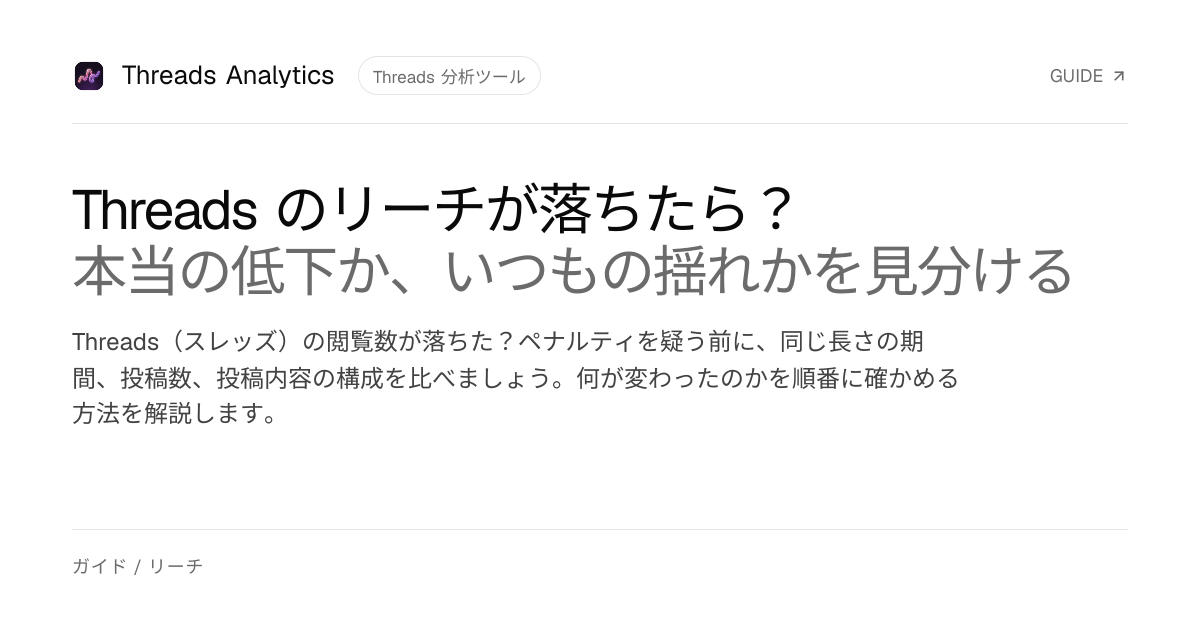
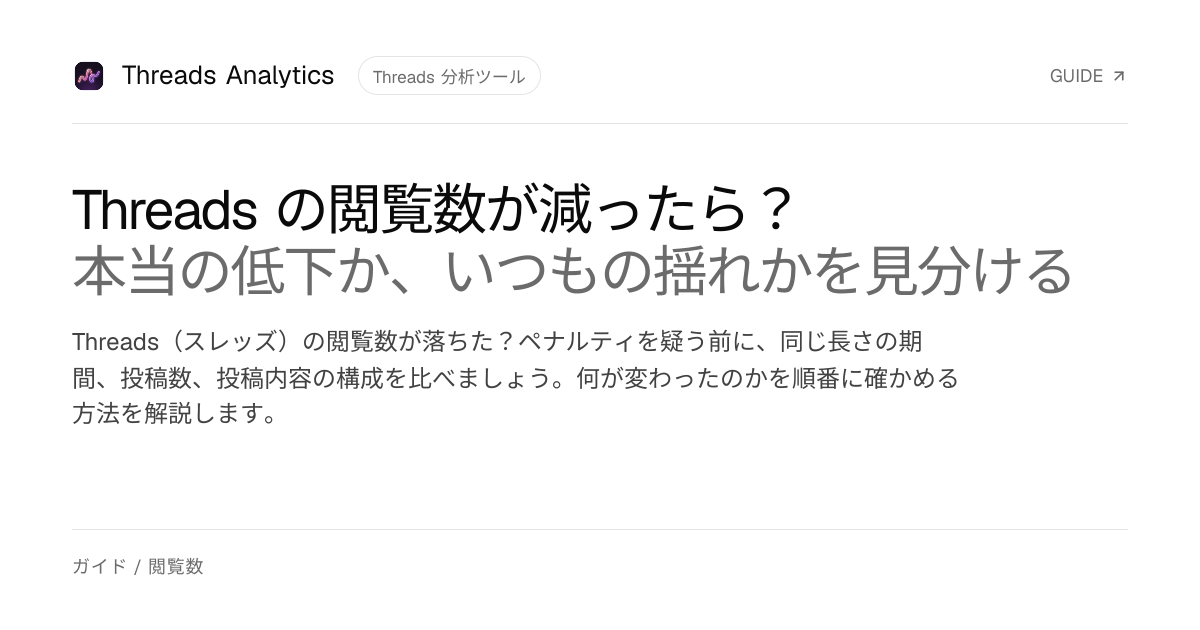
feat(website): improve indexing and keyword targeting
- Change the self-host env example host to your-db-host, so Cloudflare's
  email obfuscation stops rewriting it into a broken /cdn-cgi link.
- Add /llms.txt, generated from the page metadata registries and keyed by
  the static routes so a new page fails type-checking until it is listed.
- Retune titles and descriptions for searched terms: "Threads API" on the
  token guide, 閲覧数 and スレッズ on the Japanese pages, and 後台數據 on
  the Traditional Chinese guides. Lengthen the short zh-TW descriptions
  and add a posting-time FAQ.
- Bump the guides' modified dates and regenerate the seven OG images
  whose copy changed.

diff --git a/website/app/llms.txt/route.ts b/website/app/llms.txt/route.ts
@@ -1,0 +1,69 @@
+import { getGuide, guideHub, guideSlugs } from "@/lib/guides";
+import { getDictionary } from "@/lib/i18n";
+import { defaultLocale, localeNames, locales } from "@/lib/locales";
+import { staticPublicRoutes } from "@/lib/public-routes";
+import { selfHost } from "@/lib/self-host";
+import { siteConfig } from "@/lib/site";
+
+export const dynamic = "force-static";
+
+type PageCopy = { title: string; description: string };
+
+export function GET() {
+  const locale = defaultLocale;
+  const copy = getDictionary(locale);
+
+  // Keyed by every static route so a new page fails type-checking until it is listed here.
+  const pages: Record<(typeof staticPublicRoutes)[number], PageCopy> = {
+    "": copy.metadata,
+    "/analytics": copy.analyticsGuide.metadata,
+    "/desktop": copy.desktopGuide.metadata,
+    "/mcp": copy.mcpGuide.metadata,
+    "/giveaway": copy.giveawayGuide.metadata,
+    "/guides": guideHub[locale].metadata,
+    "/token-guide": copy.tokenGuide.metadata,
+    "/deploy/self-host": selfHost[locale].metadata,
+    "/deploy/railway-agent": copy.railwayAgentDeploy.metadata,
+    "/deploy/zeabur-agent": copy.zeaburAgentDeploy.metadata,
+    "/deploy/vercel-agent": copy.vercelAgentDeploy.metadata,
+  };
+
+  const link = (path: string, { title, description }: PageCopy) =>
+    `- [${title}](${siteConfig.url}/${locale}${path}): ${description}`;
+  const section = (heading: string, paths: (keyof typeof pages)[]) => [
+    `## ${heading}`,
+    "",
+    ...paths.map((path) => link(path, pages[path])),
+    "",
+  ];
+
+  const body = [
+    `# ${siteConfig.name}`,
+    "",
+    `> ${copy.metadata.description}`,
+    "",
+    `Source code (AGPL-3.0): ${siteConfig.github}`,
+    "",
+    ...section("Product", ["", "/analytics", "/desktop", "/mcp", "/giveaway"]),
+    "## Guides",
+    "",
+    link("/guides", pages["/guides"]),
+    ...guideSlugs.map((slug) => link(`/guides/${slug}`, getGuide(slug, locale).metadata)),
+    "",
+    ...section("Setup", [
+      "/token-guide",
+      "/deploy/self-host",
+      "/deploy/railway-agent",
+      "/deploy/zeabur-agent",
+      "/deploy/vercel-agent",
+    ]),
+    "## Other languages",
+    "",
+    ...locales
+      .filter((item) => item !== locale)
+      .map((item) => `- [${localeNames[item]}](${siteConfig.url}/${item})`),
+    "",
+  ].join("\n");
+
+  return new Response(body, { headers: { "Content-Type": "text/plain; charset=utf-8" } });
+}

diff --git a/website/lib/guides/index.ts b/website/lib/guides/index.ts
@@ -160,7 +160,7 @@ export const guideHub: Record<Locale, GuideHubCopy> = {
     metadata: {
       title: "Threads（脆）數據分析指南：洞察報告、發文時間、觸及率",
       description:
-        "Threads（脆）數據分析教學：看懂洞察報告的每個數字、用自己的貼文找出最佳發文時間，並判斷觸及率下降是真的掉還是正常波動。",
+        "Threads（脆）數據分析教學：看懂洞察報告與後台數據的每個數字、用自己的貼文找出最佳發文時間，並判斷觸及率、觀看數下降是真的掉還是正常波動。",
     },
     label: "指南",
     kicker: "指南 / Threads 數據",
@@ -194,9 +194,9 @@ export const guideHub: Record<Locale, GuideHubCopy> = {
   },
   ja: {
     metadata: {
-      title: "Threads（スレッズ）分析ガイド：インサイト・投稿時間・リーチ",
+      title: "Threads（スレッズ）分析ガイド：インサイト・投稿時間・閲覧数",
       description:
-        "Threads（スレッズ）のデータ分析ガイド。インサイトの数字の読み方、自分の投稿から最適な投稿時間を見つける方法、リーチが落ちたときの確かめ方を解説します。",
+        "Threads（スレッズ）のデータ分析ガイド。インサイトの数字の読み方、自分の投稿から最適な投稿時間を見つける方法、閲覧数が減ったときの確かめ方を解説します。",
     },
     label: "ガイド",
     kicker: "ガイド / Threads データ",
@@ -242,15 +242,15 @@ export const guideMeta: Record<
 > = {
   "threads-insights": {
     published: "2026-09-30",
-    modified: "2026-09-30",
+    modified: "2026-10-17",
     citesMetaAnnouncement: true,
   },
   "best-time-to-post": {
     published: "2026-09-30",
-    modified: "2026-09-30",
+    modified: "2026-10-17",
     citesMetaAnnouncement: false,
   },
-  "reach-drop": { published: "2026-09-30", modified: "2026-09-30", citesMetaAnnouncement: false },
+  "reach-drop": { published: "2026-09-30", modified: "2026-10-17", citesMetaAnnouncement: false },
 };
 
 /** Byline for the guides; matches the Article schema author. */

diff --git a/website/lib/guides/reach-drop.ts b/website/lib/guides/reach-drop.ts
@@ -64,7 +64,7 @@ const zh: GuideCopy = {
   metadata: {
     title: "Threads 觸及率下降怎麼辦：先判斷是真的掉還是正常波動",
     description:
-      "Threads（脆）觀看數突然下降？先別急著懷疑被限流。比較等長期間、發文篇數和內容組成，一步步找出真正改變的地方。",
+      "Threads（脆）觀看數突然下降、觸及率變低？先別急著懷疑被限流。比較等長期間、發文篇數和內容組成，一步步找出真正改變的地方，並建立自己的觀看基準。",
   },
   hero: {
     kicker: "指南 / 觸及",
@@ -110,17 +110,17 @@ const zh: GuideCopy = {
 };
 
 const ja: GuideCopy = {
-  navTitle: "Threads のリーチが落ちたとき",
-  menuTitle: "リーチが落ちたら",
+  navTitle: "Threads の閲覧数が減ったとき",
+  menuTitle: "閲覧数が減ったら",
   menuDescription: "本当の減少か通常の揺れかを見分ける",
   metadata: {
-    title: "Threads のリーチが落ちた？本当の低下と通常の揺れを見分ける方法",
+    title: "Threads の閲覧数が減った？本当の低下と通常の揺れを見分ける方法",
     description:
       "Threads（スレッズ）の閲覧数が落ちた？ペナルティを疑う前に、同じ長さの期間、投稿数、投稿内容の構成を比べましょう。何が変わったのかを順番に確かめる方法を解説します。",
   },
   hero: {
-    kicker: "ガイド / リーチ",
-    lineOne: "Threads のリーチが落ちたら？",
+    kicker: "ガイド / 閲覧数",
+    lineOne: "Threads の閲覧数が減ったら？",
     lineTwo: "本当の低下か、いつもの揺れかを見分ける",
     description:
       "閲覧数が急に落ちると、まず「制限されたのでは」と考えがちです。でも原因は、思っているより単純なことも少なくありません。一つずつ確認して、本当に変わったところを見つけましょう。",

diff --git a/website/lib/guides/best-time-to-post.ts b/website/lib/guides/best-time-to-post.ts
@@ -64,7 +64,7 @@ const zh: GuideCopy = {
   metadata: {
     title: "Threads 最佳發文時間怎麼找：用自己的數據找出適合的發文時段",
     description:
-      "Threads（脆）沒有通用的最佳發文時間。教你用自己的貼文紀錄找出適合的時段：依小時分組、比較中位數、確認樣本數，再實際測試。",
+      "Threads（脆）沒有通用的最佳發文時間。教你用自己的貼文紀錄找出適合的發文時段：依小時分組、比較中位數、確認樣本數，再用輪流發文的方式實際測試。",
   },
   hero: {
     kicker: "指南 / 發文時間",
@@ -81,6 +81,11 @@ const zh: GuideCopy = {
         question: "Threads 幾點發文最好？",
         answer:
           "沒有一個對所有帳號都適用的時間。從你能持續維持的時段開始，用同一個時區比較相似的貼文，再測試表現最好的幾個時段。",
+      },
+      {
+        question: "Threads 的發文時間成效怎麼看？",
+        answer:
+          "把自己的貼文依發文的小時分組，比較每組的觀看中位數並確認篇數，再輪流測試兩個候選時段。Threads Analytics 總覽頁的「最佳發文時段」卡片和成效分頁的「最佳發文時間」圖表，會用你同步的貼文自動算好。",
       },
       {
         question: "Threads 發文星期幾有差嗎？",

diff --git a/website/lib/i18n.ts b/website/lib/i18n.ts
@@ -368,9 +368,9 @@ export type DesktopGuideCopy = {
 
 const tokenGuideEn: TokenGuideCopy = {
   metadata: {
-    title: "Get a Threads Access Token: 18-Step API Guide",
+    title: "Threads API Access Token: 18-Step Setup Guide",
     description:
-      "Get a long-lived Threads API token with screenshots. Create a Meta app, add the Threads API, invite a tester, and copy your token in 18 steps.",
+      "Get a long-lived Threads API access token with screenshots. Create a Meta app, add the Threads API, invite a tester, and copy your token in 18 steps.",
   },
   hero: {
     kicker: "GUIDE / THREADS ACCESS TOKEN",
@@ -4910,7 +4910,7 @@ export const dictionaries = {
   },
   ja: {
     metadata: {
-      title: "無料の Threads 分析ツール：セルフホスト型ダッシュボード",
+      title: "無料の Threads（スレッズ）分析ツール：セルフホスト型ダッシュボード",
       description:
         "Threads Analytics は無料・オープンソースの Threads 分析ツール。Mac アプリですぐに使うことも、Web 版をセルフホストすることもできます。最適な投稿時間、コンテンツ形式、文章量、キーワード、フォロワー推移を自分のデータから分析。",
     },

diff --git a/website/lib/guides/threads-insights.ts b/website/lib/guides/threads-insights.ts
@@ -62,9 +62,9 @@ const zh: GuideCopy = {
   menuTitle: "洞察報告怎麼看",
   menuDescription: "瀏覽、互動、粉絲各算什麼",
   metadata: {
-    title: "Threads 洞察報告怎麼看：瀏覽次數、搜尋、個人檔案每個數字的意思",
+    title: "Threads 洞察報告怎麼看：後台數據的瀏覽次數、互動、粉絲一次看懂",
     description:
-      "Threads（脆）洞察報告在哪裡看？瀏覽次數、互動、粉絲各代表什麼，「首頁 / 個人檔案 / 搜尋」來源怎麼解讀，數字怪怪的時候該先檢查什麼，一次講清楚。",
+      "Threads（脆）洞察報告、後台數據在哪裡看？瀏覽次數、互動、粉絲各代表什麼，「首頁 / 個人檔案 / 搜尋」來源怎麼解讀，數字怪怪的時候該先檢查什麼，一次講清楚。",
   },
   hero: {
     kicker: "指南 / THREADS 洞察報告",
